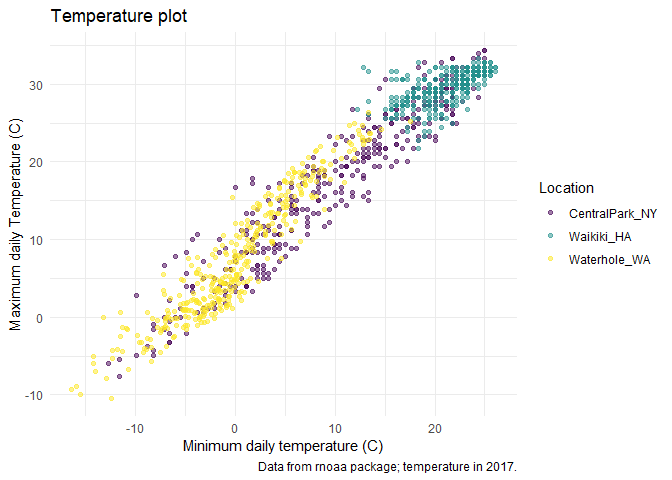
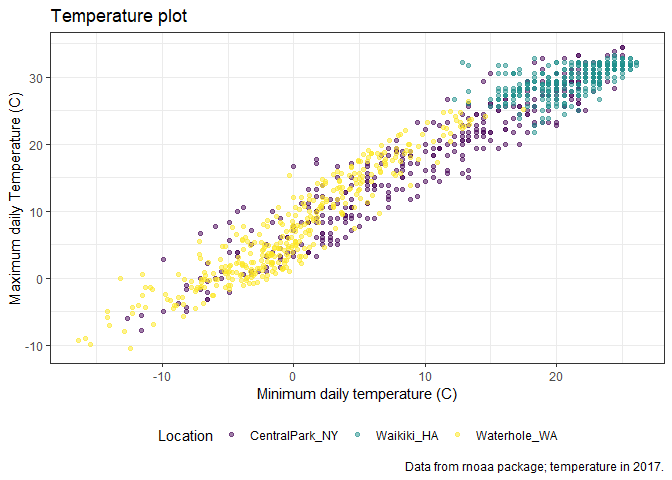
themes

diff --git a/data_viz._ii.md b/data_viz._ii.md
@@ -175,7 +175,8 @@ weather_df %>%
   viridis::scale_color_viridis(
     name = "Location",
     discrete = TRUE) +
-  theme_minimal()
+  theme_bw() +
+  theme(legend.position = "bottom")
 ```
 
     ## Warning: Removed 15 rows containing missing values (geom_point).
